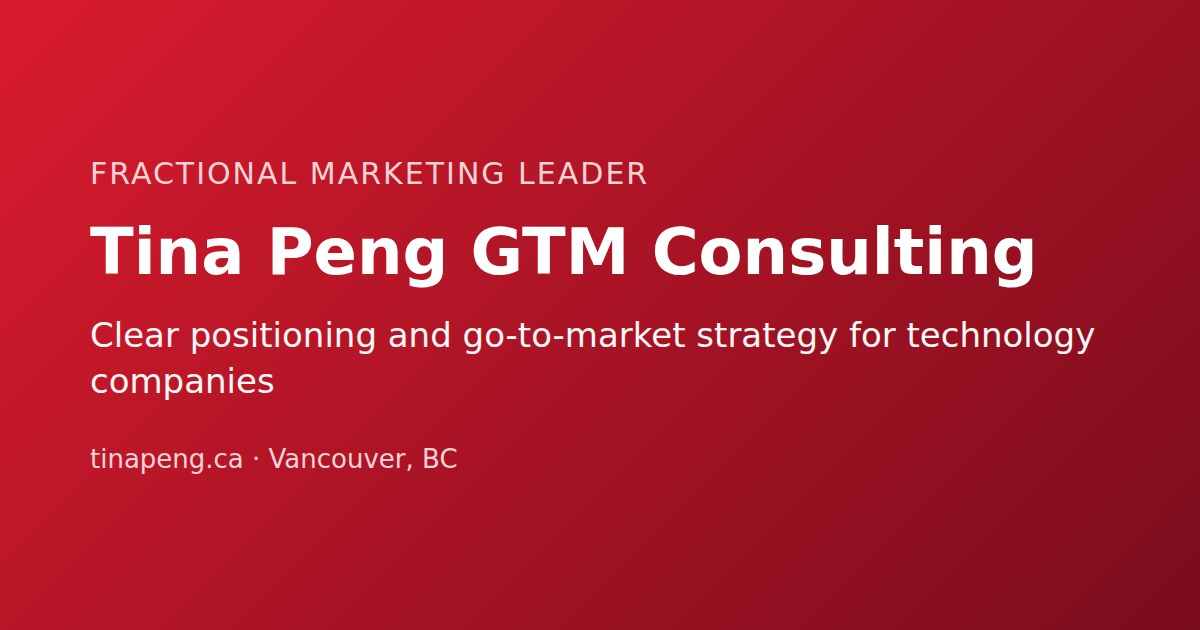
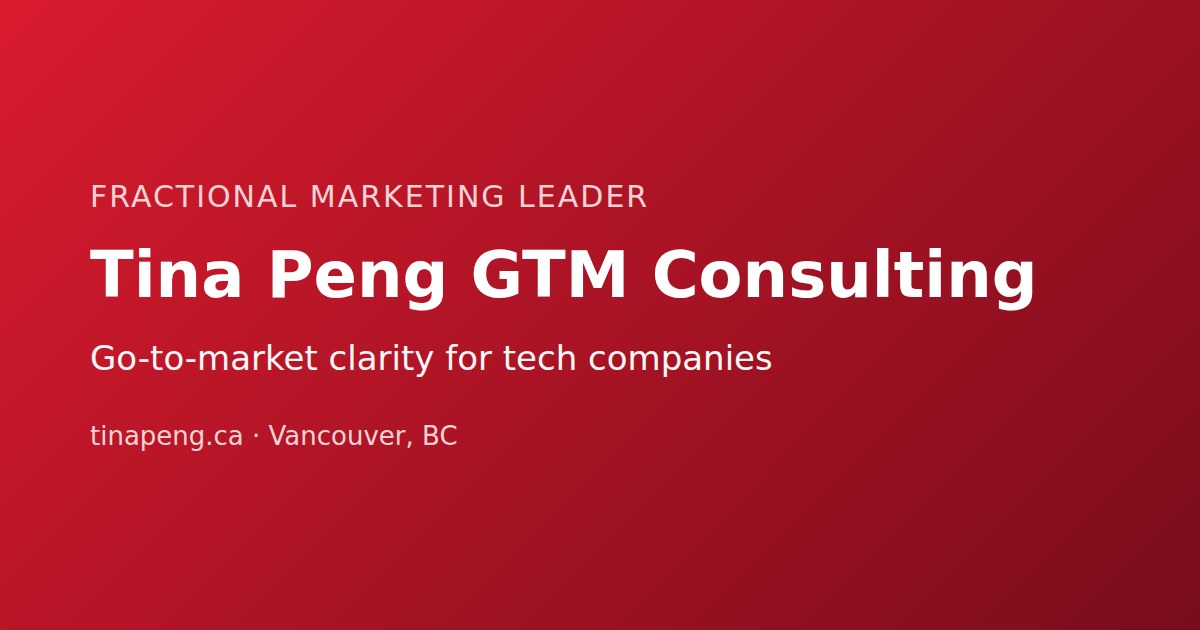
Shorten hero headline to "Go-to-market clarity for tech companies"
Claude-Session: https://claude.ai/code/session_014m8Fkih4xCBoM6Z4LRjdQN

Changed region(s): [[0.0617, 0.2413, 0.925, 0.6333], [0.0617, 0.6635, 0.4008, 0.754]]

diff --git a/src/App.jsx b/src/App.jsx
@@ -382,13 +382,13 @@ function App() {
                 Fractional Marketing Leader
               </p>
               <h1 className="text-4xl md:text-5xl lg:text-6xl font-bold leading-tight" style={{ color: INK }}>
-                Clear positioning and go-to-market strategy
+                Go-to-market clarity
                 <span
                   className="text-transparent bg-clip-text"
                   style={{ backgroundImage: GRADIENT, WebkitBackgroundClip: 'text' }}
                 >
                   {' '}
-                  for technology companies
+                  for tech companies
                 </span>
               </h1>
               <p className="mt-6 text-xl leading-relaxed" style={{ color: BODY }}>
